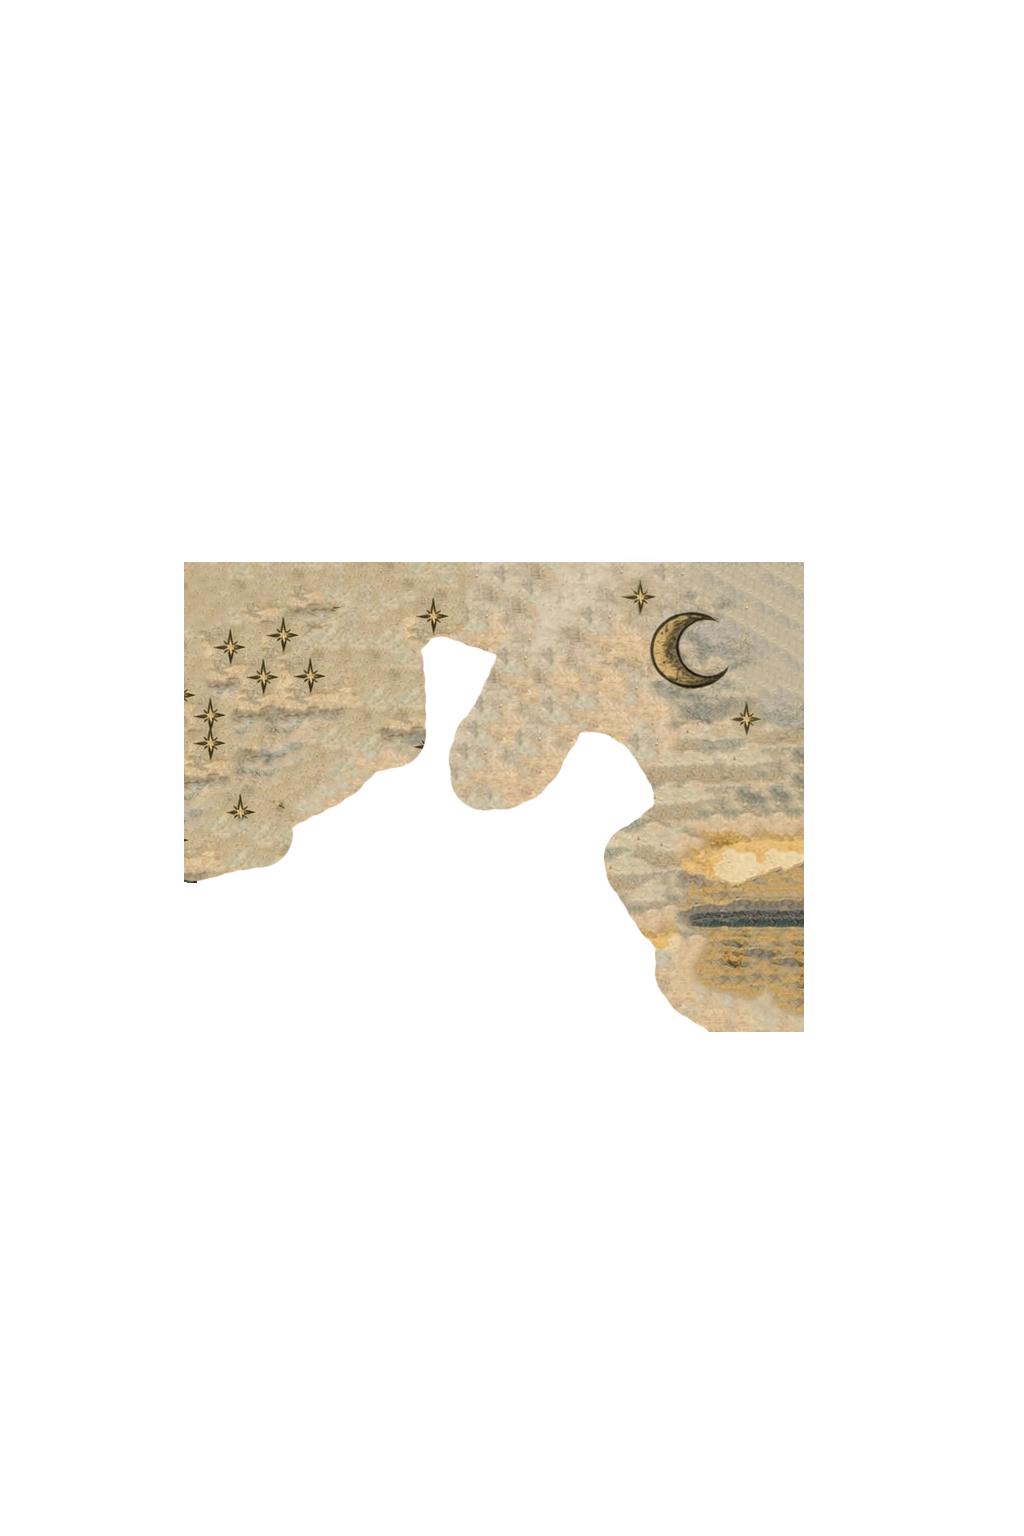
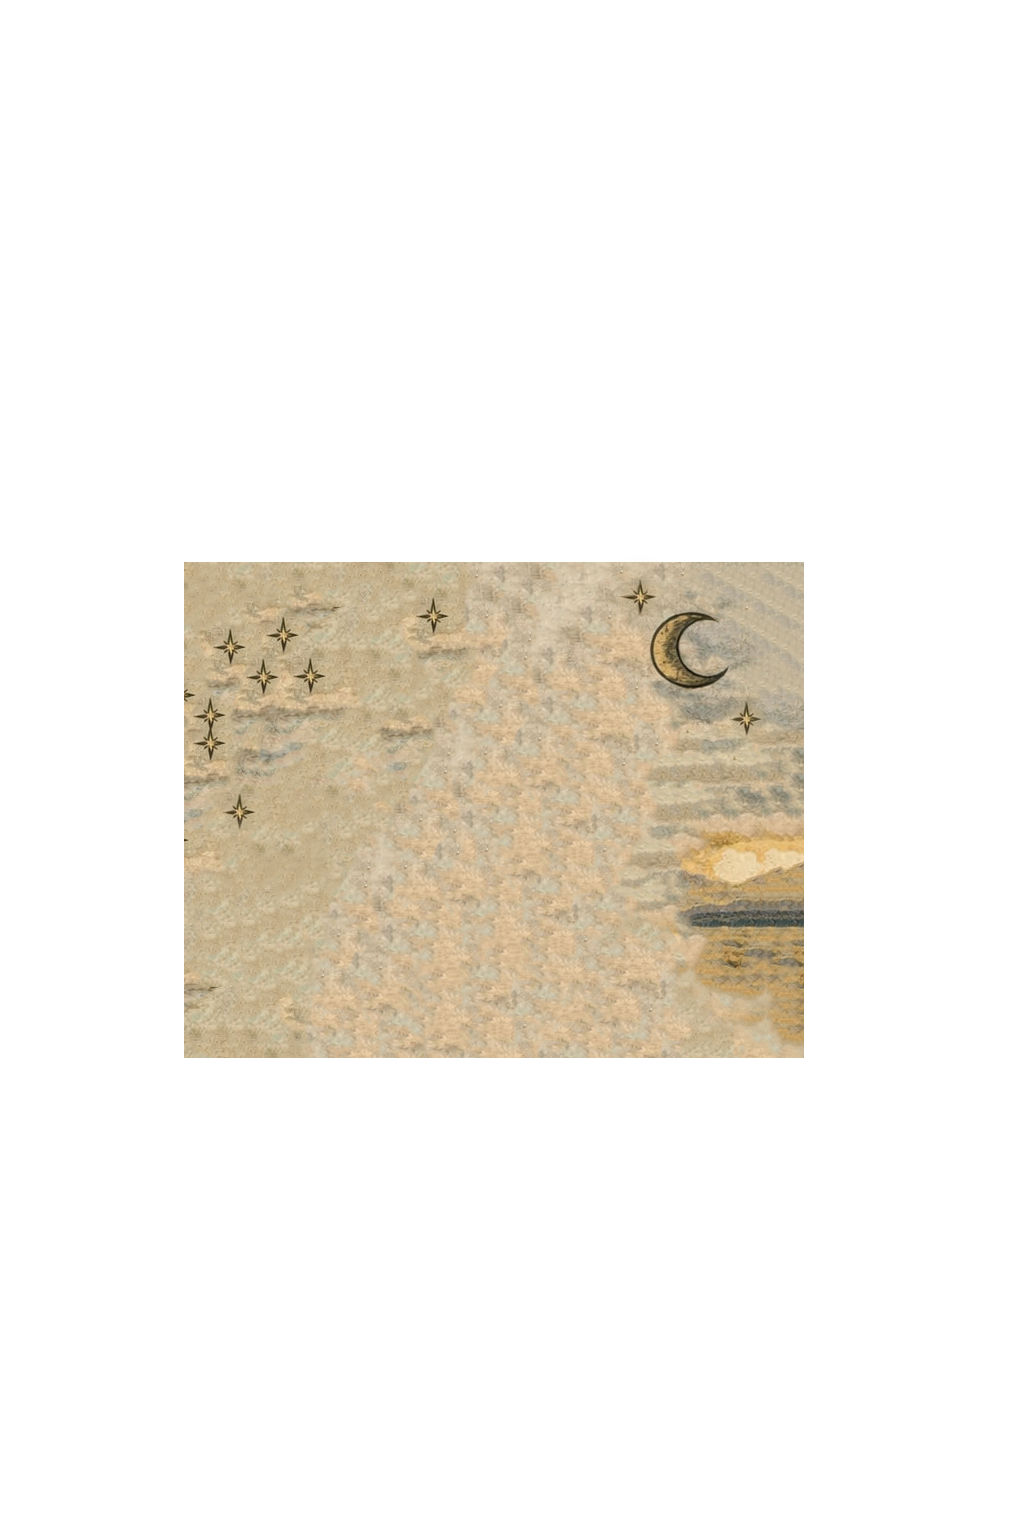
fix: parallax card white frame

Changed region(s): [[0.1562, 0.4062, 0.8125, 0.6875]]

diff --git a/src/App.js b/src/App.js
@@ -175,7 +175,7 @@ export default function WeddingInvitation() {
                   style={{
                     x: springBgX,
                     y: springBgY,
-                    scale: 1,
+                    scale: 1.05,
                   }}
                 >
                   <img
@@ -191,7 +191,7 @@ export default function WeddingInvitation() {
                   style={{
                     x: springLoversX,
                     y: springLoversY,
-                    scale: 1.2,
+                    scale: 1.05,
                   }}
                 >
                   <img
@@ -207,7 +207,7 @@ export default function WeddingInvitation() {
                   style={{
                     x: springCardX,
                     y: springCardY,
-                    z: 20,
+                    scale: 1.05,
                   }}
                 >
                   <img
@@ -216,8 +216,6 @@ export default function WeddingInvitation() {
                     className="w-full h-full object-cover"
                   />
                 </motion.div>
-
-
 
                 {/* Shine effect */}
                 <motion.div
